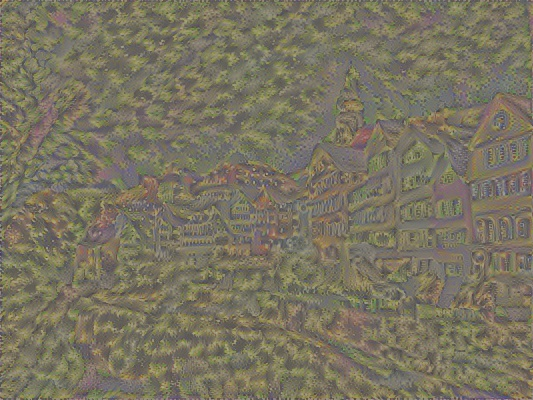
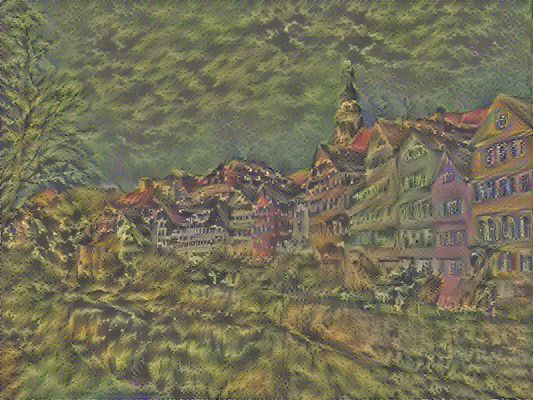
gegeda

diff --git a/neural_style.py b/neural_style.py
@@ -19,7 +19,7 @@ CONTENT_WEIGHT_BLEND = 1
 STYLE_WEIGHT = 5e3
 TV_WEIGHT = 1e2
 STYLE_LAYER_WEIGHT_EXP = 1
-LEARNING_RATE = 1e1
+LEARNING_RATE = 5e-1
 BETA1 = 0.9
 BETA2 = 0.999
 EPSILON = 1e-08
